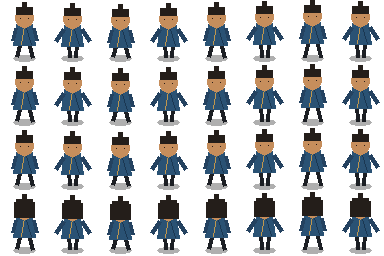
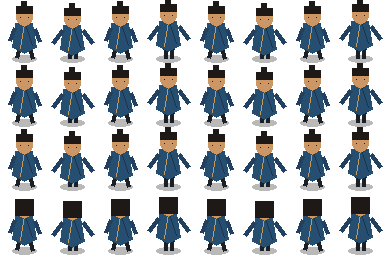
art: add protagonist equipment layers

diff --git a/scripts/generate_assets.py b/scripts/generate_assets.py
@@ -783,6 +783,145 @@ def apply_combat_sources_v1():
             save(make_combat_sheet(poses[eid], action, frames), f"characters/enemies/{eid}/{action}.png")
 
 
+def actor_layout(action, frame, direction):
+    phase = math.sin(frame * math.pi / 2)
+    bob = int(phase * (1 if action == "idle" else 2))
+    step = 3 if action == "walk" and frame % 2 else -2
+    if action == "sleep":
+        return {"pose": "sleep", "head": (16, 39), "body": (27, 39), "feet": (30, 51), "bob": 0, "step": 0}
+    if action == "meditate":
+        return {"pose": "meditate", "head": (24, 18 + bob), "body": (24, 39 + bob), "feet": (24, 57), "bob": bob, "step": 0}
+    return {"pose": "stand", "head": (24, 16 + bob), "body": (24, 35 + bob), "feet": (24, 59), "bob": bob, "step": step}
+
+
+def draw_home_actor(d, x, y, action, frame, direction, layer="base", variant=None):
+    p = actor_layout(action, frame, direction)
+    pose = p["pose"]
+    hx, hy = x + p["head"][0], y + p["head"][1]
+    bx, by = x + p["body"][0], y + p["body"][1]
+    skin = (204, 151, 100, 255)
+    hair = (30, 25, 23, 255)
+
+    if layer == "base":
+        if pose == "stand":
+            d.ellipse((x + 12, y + 55, x + 36, y + 62), fill=(0, 0, 0, 70))
+            d.line((x + 20, y + 43 + p["bob"], x + 18 + p["step"], y + 58), fill=(27, 31, 38, 255), width=4)
+            d.line((x + 28, y + 43 + p["bob"], x + 30 - p["step"], y + 58), fill=(27, 31, 38, 255), width=4)
+            d.polygon([(bx - 9, by - 12), (bx + 8, by - 12), (bx + 12, by + 12), (bx, by + 18), (bx - 12, by + 12)], fill=(38, 78, 112, 255))
+            d.line((bx, by - 11, bx - 4, by + 13), fill=(194, 154, 88, 255), width=1)
+            d.line((bx + 1, by - 11, bx + 8, by + 10), fill=(23, 53, 80, 255), width=1)
+            swing = p["step"] if action == "walk" else 0
+            d.line((bx - 10, by - 7, bx - 17 - swing, by + 6), fill=(34, 64, 96, 255), width=4)
+            d.line((bx + 10, by - 7, bx + 17 + swing, by + 6), fill=(34, 64, 96, 255), width=4)
+            d.ellipse((hx - 8, hy - 8, hx + 8, hy + 9), fill=skin)
+            if direction == "up":
+                d.rectangle((hx - 9, hy - 9, hx + 9, hy + 7), fill=hair)
+            else:
+                d.rectangle((hx - 8, hy - 10, hx + 8, hy - 3), fill=hair)
+                d.rectangle((hx - 3, hy - 15, hx + 2, hy - 9), fill=hair)
+                d.point((hx - 4, hy + 1), fill=(40, 28, 22, 255))
+                d.point((hx + 4, hy + 1), fill=(40, 28, 22, 255))
+        elif pose == "sleep":
+            d.ellipse((x + 10, y + 45, x + 42, y + 57), fill=(0, 0, 0, 65))
+            d.ellipse((x + 9, y + 33, x + 25, y + 48), fill=skin)
+            d.rectangle((x + 20, y + 31, x + 43, y + 44), fill=(38, 78, 112, 255))
+            d.line((x + 29, y + 31, x + 41, y + 22), fill=(232, 226, 196, 180), width=1)
+        else:
+            d.ellipse((x + 10, y + 52, x + 38, y + 61), fill=(0, 0, 0, 65))
+            d.ellipse((hx - 8, hy - 8, hx + 8, hy + 9), fill=skin)
+            d.rectangle((hx - 8, hy - 10, hx + 8, hy - 3), fill=hair)
+            d.polygon([(bx - 8, by - 10), (bx + 8, by - 10), (bx + 10, by + 8), (bx - 10, by + 8)], fill=(38, 78, 112, 255))
+            d.arc((x + 6, y + 39, x + 42, y + 62), 185, 355, fill=(25, 31, 40, 255), width=5)
+            d.ellipse((x + 14, y + 42, x + 34, y + 58), outline=(186, 156, 86, 185), width=1)
+        return
+
+    if pose == "stand":
+        if layer == "body":
+            col = (214, 199, 164, 255) if variant == "body_cloth" else (98, 58, 43, 255)
+            trim = (72, 96, 120, 255) if variant == "body_cloth" else (183, 84, 62, 255)
+            d.polygon([(bx - 10, by - 11), (bx + 10, by - 11), (bx + 12, by + 12), (bx, by + 18), (bx - 12, by + 12)], fill=col)
+            d.line((bx - 7, by - 5, bx + 7, by + 8), fill=trim, width=2)
+            if variant == "body_softarmor":
+                for yy in range(by - 6, by + 10, 5):
+                    d.line((bx - 8, yy, bx + 8, yy), fill=(132, 83, 56, 220), width=1)
+        elif layer == "legs":
+            col = (205, 192, 166, 255) if variant == "legs_cloth" else (92, 76, 65, 255)
+            d.line((x + 20, y + 43 + p["bob"], x + 18 + p["step"], y + 58), fill=col, width=5)
+            d.line((x + 28, y + 43 + p["bob"], x + 30 - p["step"], y + 58), fill=col, width=5)
+            if variant == "legs_guard":
+                d.rectangle((x + 15 + p["step"], y + 51, x + 21 + p["step"], y + 58), fill=(116, 109, 98, 255))
+                d.rectangle((x + 27 - p["step"], y + 51, x + 33 - p["step"], y + 58), fill=(116, 109, 98, 255))
+        elif layer == "head":
+            if variant == "head_cloth":
+                d.rectangle((hx - 9, hy - 8, hx + 9, hy - 3), fill=(212, 198, 166, 255))
+                d.line((hx + 7, hy - 4, hx + 14, hy + 3), fill=(178, 154, 118, 255), width=2)
+            else:
+                d.pieslice((hx - 10, hy - 11, hx + 10, hy + 6), 180, 360, fill=(126, 120, 112, 255), outline=(54, 48, 42, 255))
+                d.rectangle((hx - 9, hy - 3, hx + 9, hy + 3), fill=(92, 84, 76, 255))
+        elif layer == "weapon":
+            steel = (214, 218, 210, 255)
+            grip = (88, 56, 35, 255)
+            if direction == "left":
+                pts = (bx - 16, by - 2, bx - 30, by - 14)
+            elif direction == "right":
+                pts = (bx + 16, by - 2, bx + 30, by - 14)
+            elif direction == "up":
+                pts = (bx + 10, by - 5, bx + 22, by - 18)
+            else:
+                pts = (bx + 12, by - 2, bx + 26, by + 6)
+            d.line(pts, fill=steel, width=3 if variant == "wpn_iron_sword" else 4)
+            d.line((pts[0], pts[1], pts[0] - 5 if pts[2] < pts[0] else pts[0] + 5, pts[1] + 5), fill=grip, width=3)
+    elif pose == "sleep":
+        if layer == "body":
+            d.rectangle((x + 20, y + 31, x + 43, y + 44), fill=(214, 199, 164, 255) if variant == "body_cloth" else (98, 58, 43, 255))
+        elif layer == "head":
+            d.rectangle((x + 9, y + 33, x + 25, y + 38), fill=(212, 198, 166, 255) if variant == "head_cloth" else (126, 120, 112, 255))
+        elif layer == "legs":
+            d.rectangle((x + 31, y + 41, x + 43, y + 48), fill=(205, 192, 166, 255) if variant == "legs_cloth" else (92, 76, 65, 255))
+    elif pose == "meditate":
+        if layer == "body":
+            d.polygon([(bx - 9, by - 9), (bx + 9, by - 9), (bx + 11, by + 8), (bx - 11, by + 8)], fill=(214, 199, 164, 255) if variant == "body_cloth" else (98, 58, 43, 255))
+        elif layer == "head":
+            d.rectangle((hx - 9, hy - 8, hx + 9, hy - 3), fill=(212, 198, 166, 255) if variant == "head_cloth" else (126, 120, 112, 255))
+        elif layer == "legs":
+            d.arc((x + 6, y + 39, x + 42, y + 62), 185, 355, fill=(205, 192, 166, 255) if variant == "legs_cloth" else (92, 76, 65, 255), width=5)
+
+
+def make_actor_sheet(layer="base", variant=None):
+    actions = [("idle", 4, 4), ("walk", 8, 4), ("sleep", 4, 1), ("meditate", 4, 1)]
+    dirs = ["down", "left", "right", "up"]
+    sheets = {}
+    for action, frames, rows in actions:
+        img = Image.new("RGBA", (48 * frames, 64 * rows), (0, 0, 0, 0))
+        d = ImageDraw.Draw(img)
+        for r in range(rows):
+            direction = dirs[r] if rows == 4 else "down"
+            for f in range(frames):
+                draw_home_actor(d, f * 48, r * 64, action, f, direction, layer, variant)
+        sheets[action] = img
+    return sheets
+
+
+def apply_home_actor_layers_v1():
+    base = make_actor_sheet("base")
+    for action, img in base.items():
+        save(img, f"characters/protagonist/{action}.png")
+    overlay_specs = {
+        "head_cloth": "head",
+        "head_iron": "head",
+        "body_cloth": "body",
+        "body_softarmor": "body",
+        "legs_cloth": "legs",
+        "legs_guard": "legs",
+        "wpn_iron_sword": "weapon",
+        "wpn_steel_saber": "weapon",
+    }
+    for tid, layer in overlay_specs.items():
+        sheets = make_actor_sheet(layer, tid)
+        for action, img in sheets.items():
+            save(img, f"characters/equip/{tid}/{action}.png")
+
+
 def main():
     environment_assets()
     furniture()
@@ -794,6 +933,7 @@ def main():
     apply_home_asset_sheet_v2()
     apply_equipment_icon_sheet_v1()
     apply_combat_sources_v1()
+    apply_home_actor_layers_v1()
 
 
 if __name__ == "__main__":
